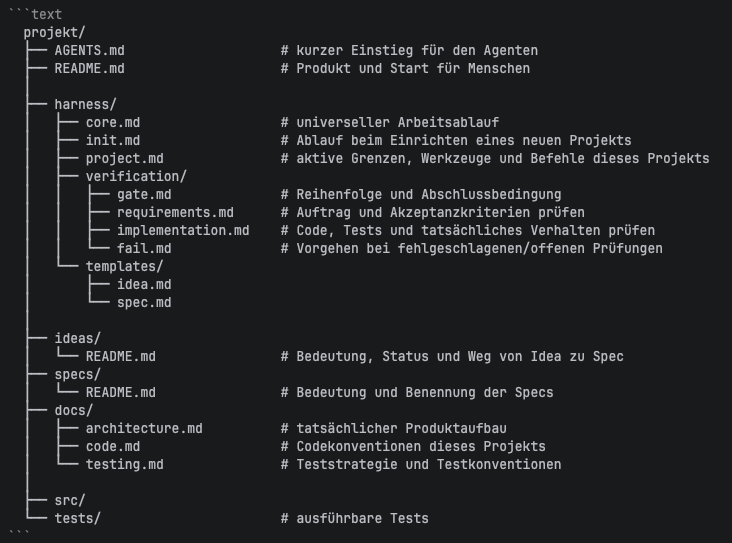
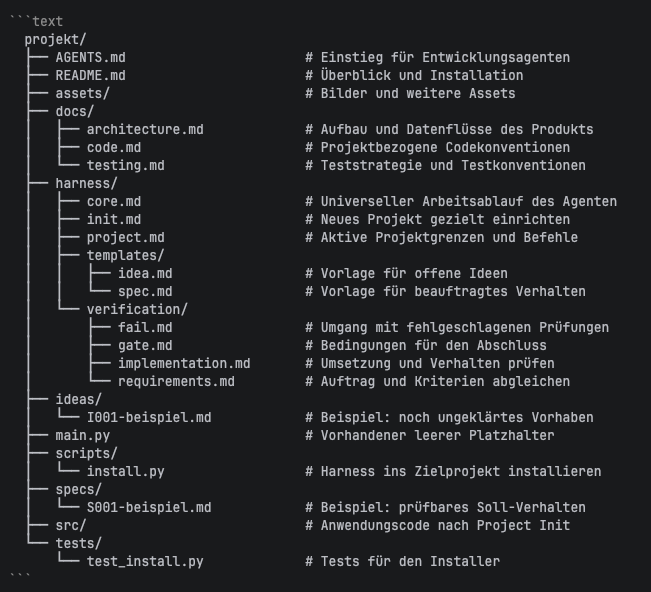
Update harness overview diagram

diff --git a/README.md b/README.md
@@ -1,6 +1,6 @@
 # Agentic Harness V3
 
-![Harness overview](assets/images/img.png)
+![img.png](assets/images/img.png)
 
 Strukturübersicht als Text, falls GitHub das Bild nicht ausliefert:
 
